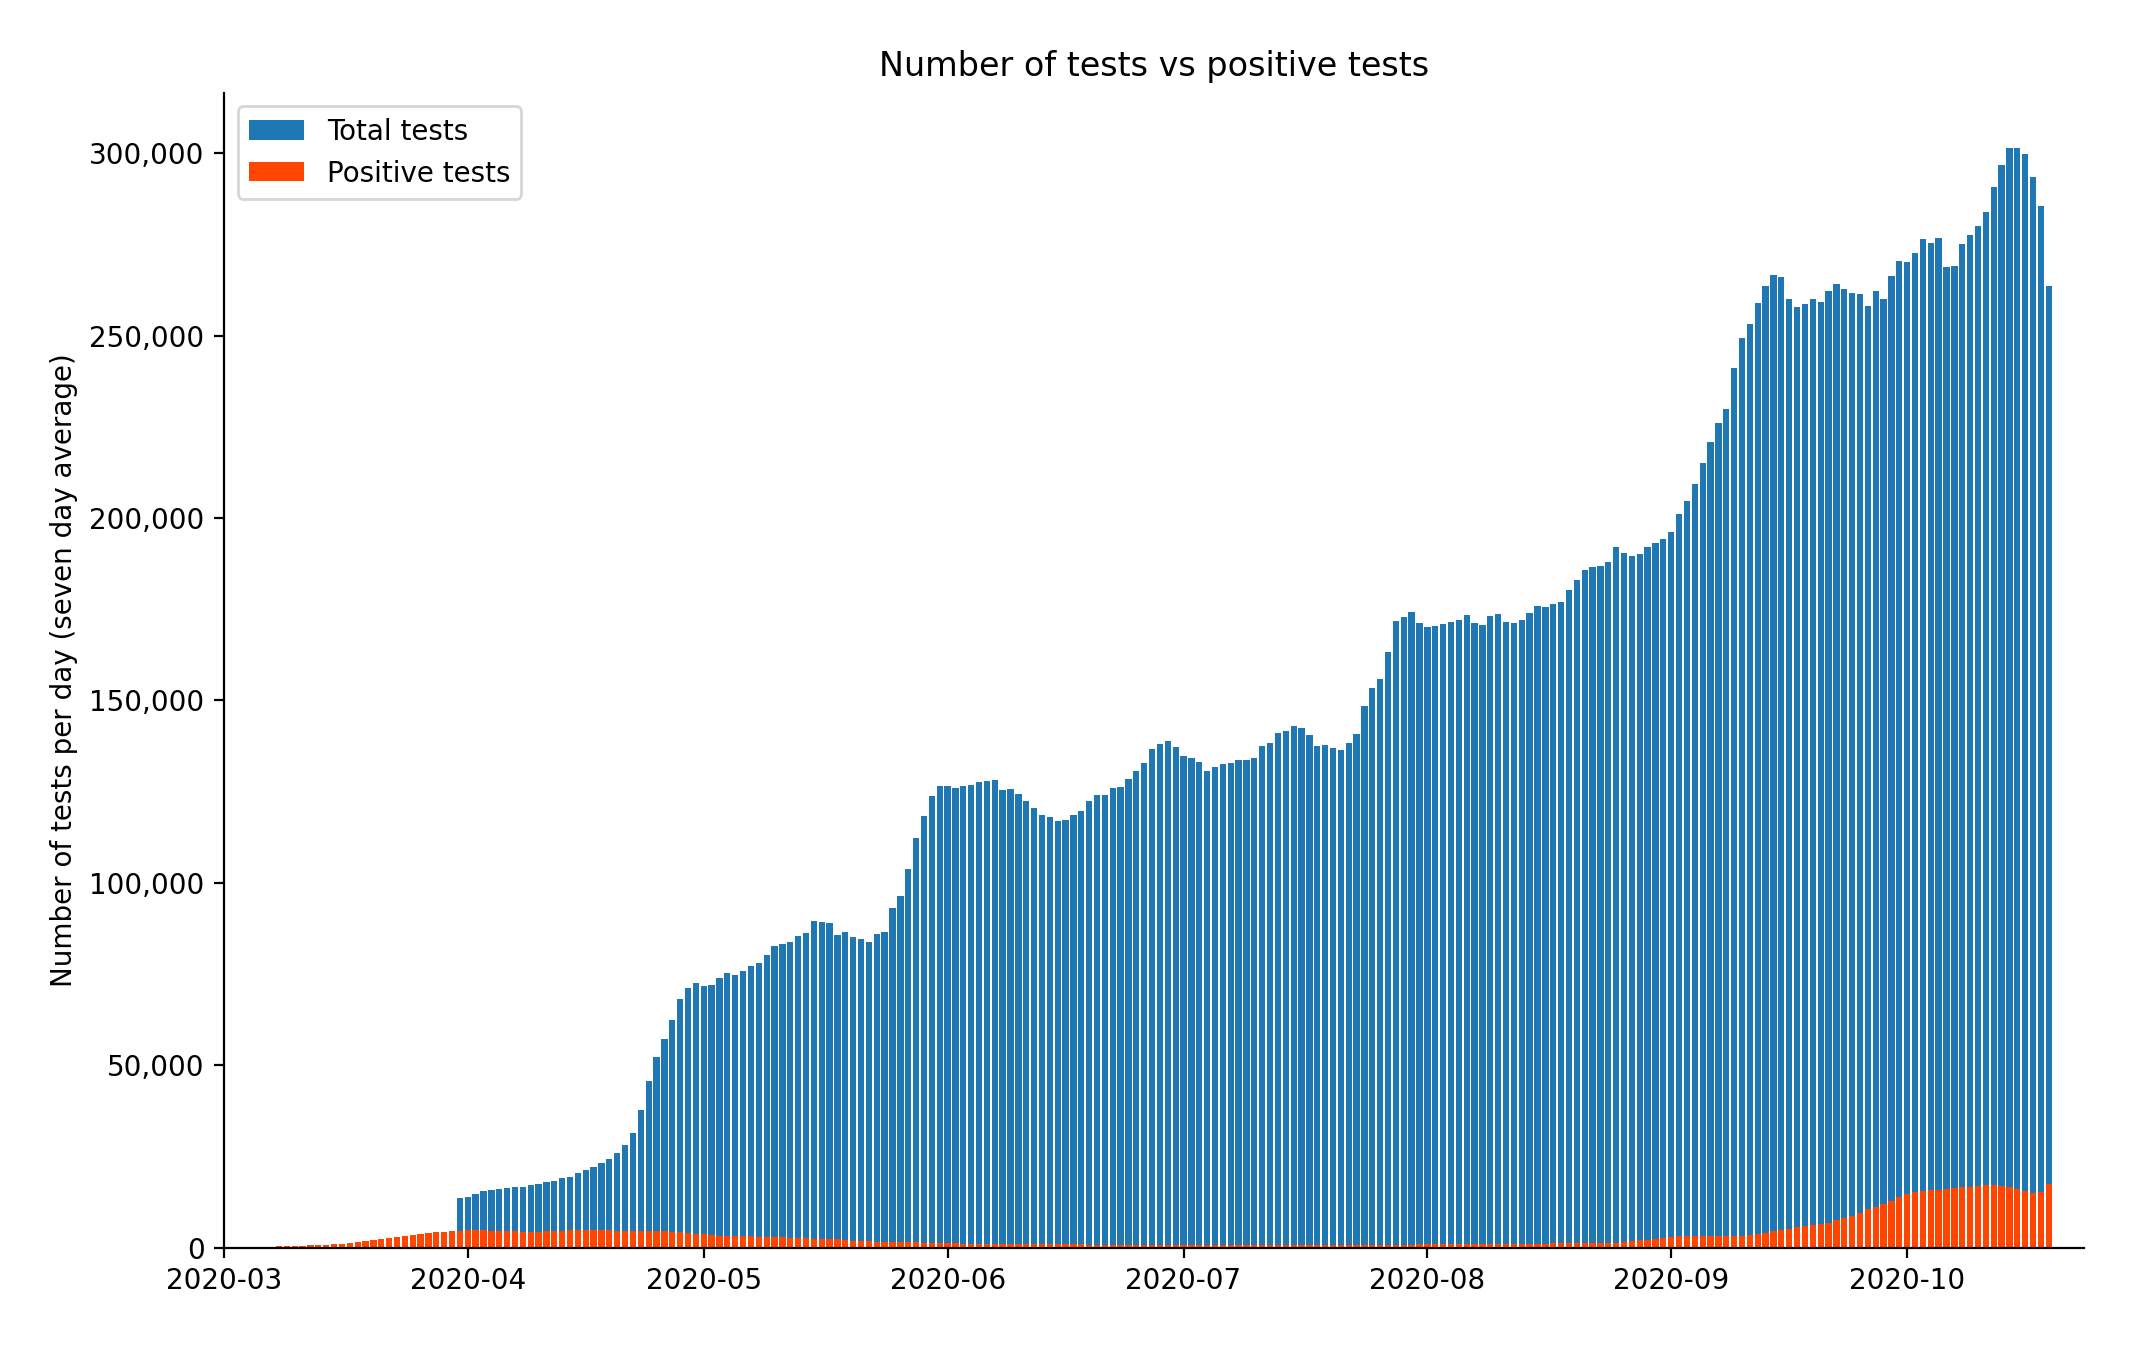
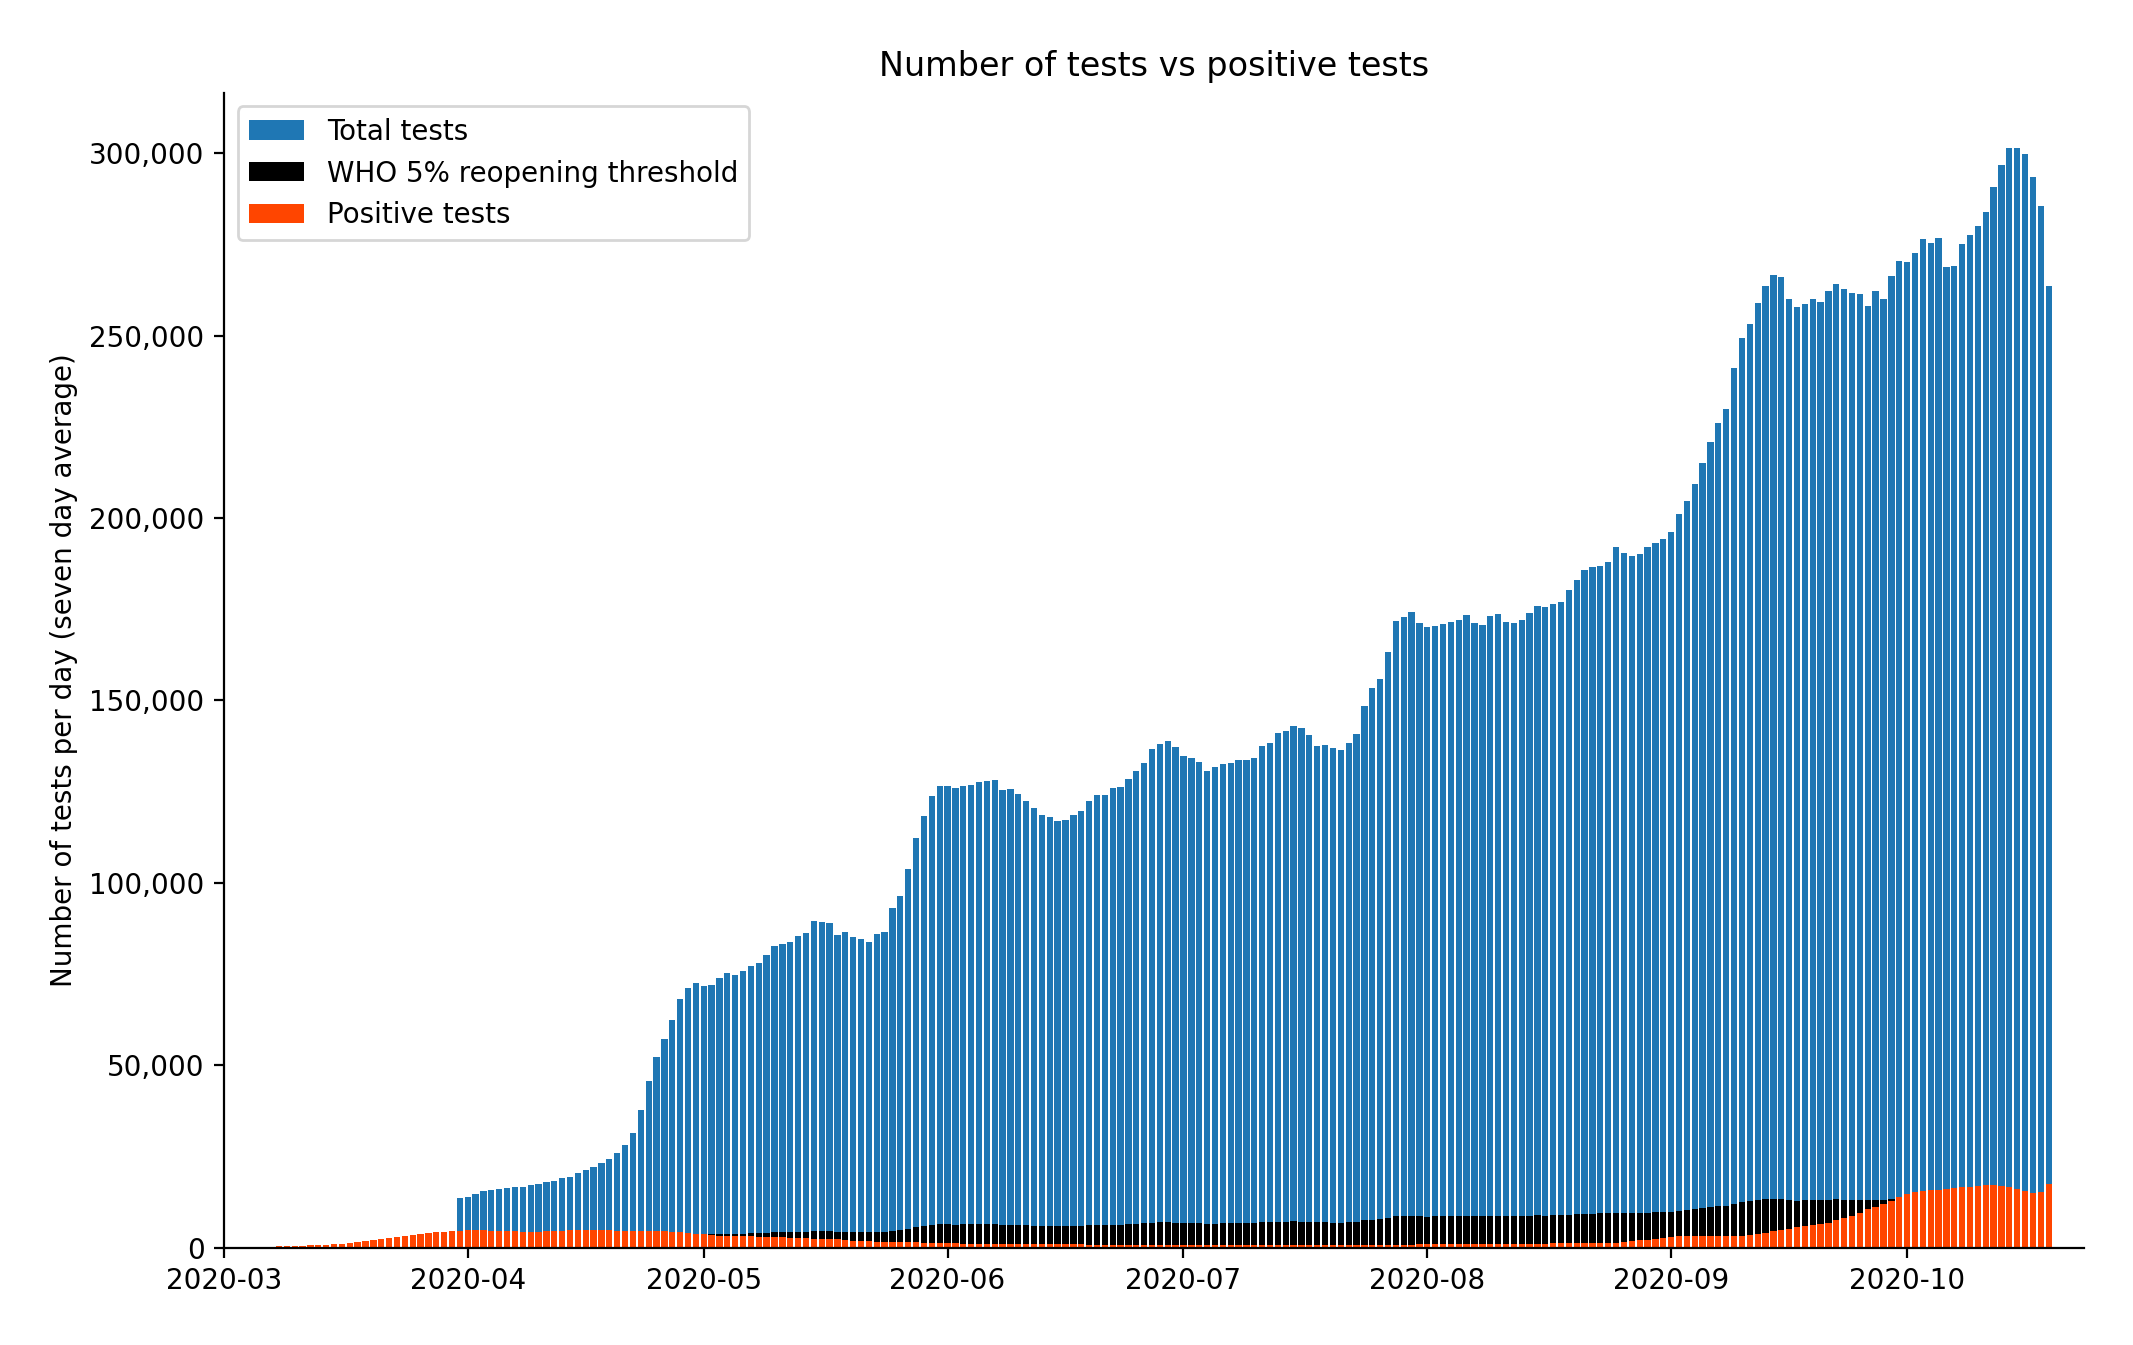
Add 5% threshold to double bar chart

Changed region(s): [[0.3713, 0.8743, 0.8973, 0.968], [0.0928, 0.1249, 0.3404, 0.1874]]

diff --git a/plot.py b/plot.py
@@ -148,7 +148,11 @@ def ukPlot(dataDir="data/", avg=True):
 
     if avg:
         testTotal = n_day_avg(testTotal, 7)
+    
+    fivePercent = [x * 0.05 for x in testTotal]
+
     ax.bar(testDates, testTotal, color="C0", label="Total tests")
+    ax.bar(testDates, fivePercent, color="black", label="WHO 5% reopening threshold")
     ax.bar(casesDates, cases, color="orangered", label="Positive tests")
 
     ax.xaxis_date()
@@ -282,7 +286,11 @@ def nationPlot(dataDir="data/", avg=True):
 
     # if avg:
     #     testTotal = n_day_avg(testTotal, 7)
+    
+    # fivePercent = [x * 0.05 for x in testTotal]
+
     # ax.bar(testDates, testTotal, color="C0", label="Total tests")
+    # ax.bar(testDates, fivePercent, color="black", label="WHO 5% reopening threshold")
     # ax.bar(casesDates, cases, color="orangered", label="Positive tests")
 
     # ax.xaxis_date()
